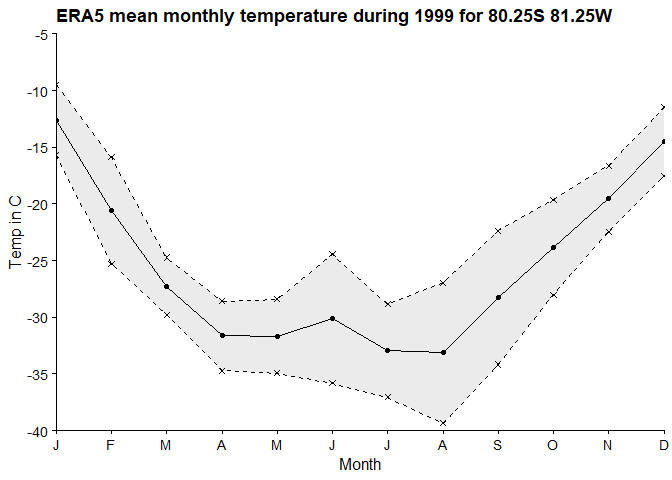
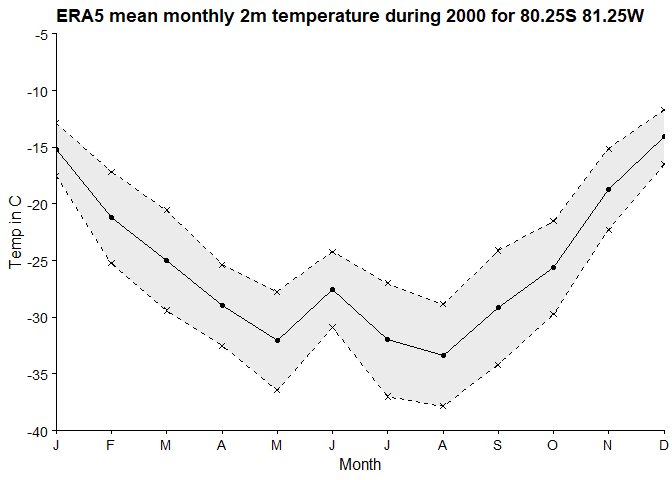
readme update

diff --git a/README.md b/README.md
@@ -36,7 +36,7 @@ A simple workflow is outlined below.
 
 -   The `collate_era5()` function imports and parses ERA5 netcdf4 files.
     The package ships with a small netcdf4 file containing 2m
-    temperature data from 1999, used in line with the Copernicus
+    temperature data from 2000, used in line with the Copernicus
     [license](https://cds.climate.copernicus.eu/api/v2/terms/static/licence-to-use-copernicus-products.pdf).
     The data includes the grid points lat = c(-80.00 -80.25 -80.50) and
     lon = c(-81.50 -81.25 -81.00 -80.75 -80.50), covering a small
@@ -53,19 +53,19 @@ dat_store_era5 <- "D:/DATA/General data/ERA5/"
 # Get filenames in store
 era5_fnames <- list.files(dat_store_era5, full.names = TRUE)
 # Get target era5 file
-temp2m_1999_PH <- collate_era5(era5_fnames, string = 'temp2m_1999', coords = c(-80.25, -81.25))
-head(temp2m_1999_PH)
+temp2m_2000_PH <- collate_era5(era5_fnames, string = 'temp2m_2000', coords = c(-80.25, -81.25))
+head(temp2m_2000_PH)
 ```
 
     #> # A tibble: 6 x 12
     #>   value   lon   lat timestamp           name  coord       year month   day  hour
     #>   <dbl> <dbl> <dbl> <dttm>              <fct> <fct>      <dbl> <dbl> <dbl> <dbl>
-    #> 1  258. -81.2 -80.2 1999-01-01 00:00:00 t2m   -81.25 -8~  1999     1     1     0
-    #> 2  257. -81.2 -80.2 1999-01-01 01:00:00 t2m   -81.25 -8~  1999     1     1     1
-    #> 3  257. -81.2 -80.2 1999-01-01 02:00:00 t2m   -81.25 -8~  1999     1     1     2
-    #> 4  256. -81.2 -80.2 1999-01-01 03:00:00 t2m   -81.25 -8~  1999     1     1     3
-    #> 5  255. -81.2 -80.2 1999-01-01 04:00:00 t2m   -81.25 -8~  1999     1     1     4
-    #> 6  255. -81.2 -80.2 1999-01-01 05:00:00 t2m   -81.25 -8~  1999     1     1     5
+    #> 1  259. -81.2 -80.2 2000-01-01 00:00:00 t2m   -81.25 -8~  2000     1     1     0
+    #> 2  258. -81.2 -80.2 2000-01-01 01:00:00 t2m   -81.25 -8~  2000     1     1     1
+    #> 3  258. -81.2 -80.2 2000-01-01 02:00:00 t2m   -81.25 -8~  2000     1     1     2
+    #> 4  257. -81.2 -80.2 2000-01-01 03:00:00 t2m   -81.25 -8~  2000     1     1     3
+    #> 5  257. -81.2 -80.2 2000-01-01 04:00:00 t2m   -81.25 -8~  2000     1     1     4
+    #> 6  257. -81.2 -80.2 2000-01-01 05:00:00 t2m   -81.25 -8~  2000     1     1     5
     #> # ... with 2 more variables: month_seq <dbl>, day_seq <dbl>
 
 Imported data can now be analysed freely. A simple monthly value
@@ -76,7 +76,7 @@ across multiple years.
 
 ``` r
 # Derive month means. Single year.
-PH_temp_monthmeans <- monthmeans_era5(temp2m_1999_PH, total_months = TRUE) %>%
+PH_temp_monthmeans <- monthmeans_era5(temp2m_2000_PH, total_months = TRUE) %>%
   mutate(month_varmean = month_varmean - 273.15) # K to C conversion
 # Plot the monthly temperature means at this grid point for 1999, with standard devations
 sd_polygon_avtemp <- data.frame(x = c(rep(PH_temp_monthmeans$month), 
@@ -100,7 +100,7 @@ ggplot() +
   scale_x_continuous(breaks = seq(1,12,1), labels = month_labs, expand = c(0,0)) +
   scale_y_continuous(expand = c(0,0), limits = c(-40,-5), breaks = seq(-40,-5,5)) +
   labs(x = "Month", y = "Temp in C") +
-  ggtitle('ERA5 mean monthly temperature during 1999 for 80.25S 81.25W') +
+  ggtitle('ERA5 mean monthly 2m temperature during 2000 for 80.25S 81.25W') +
   theme_cowplot(12)
 ```
 
